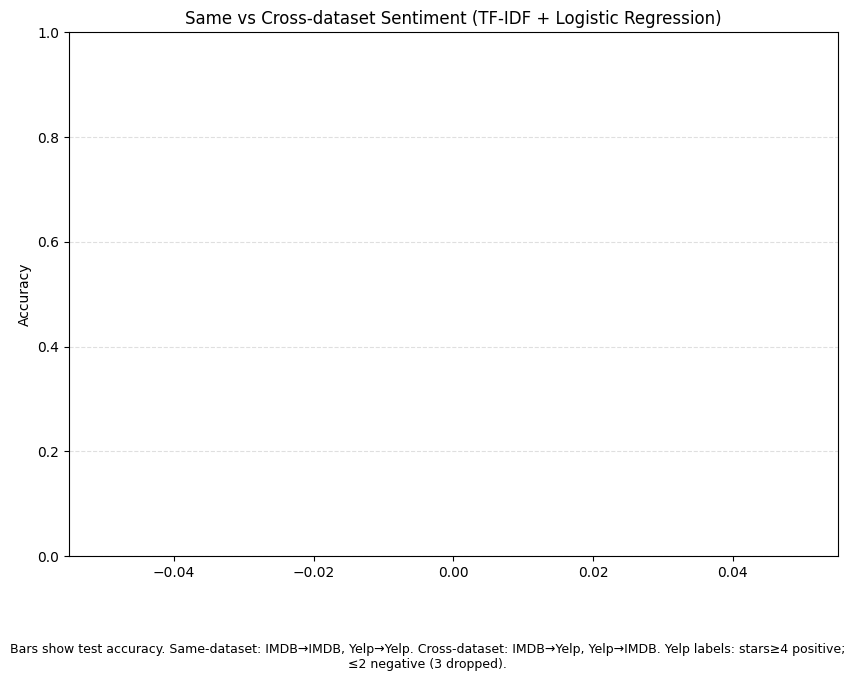
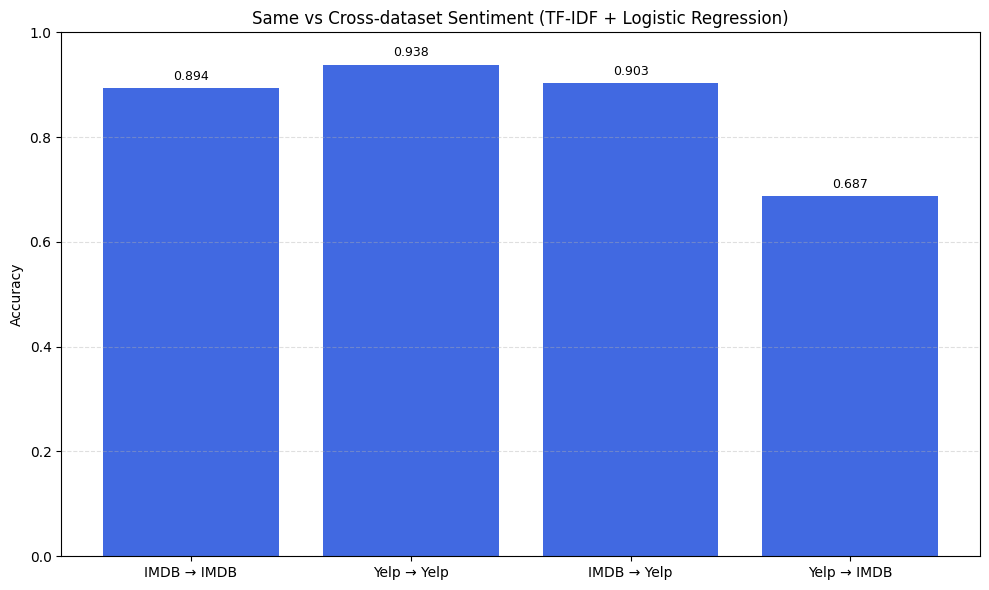
Fixed

diff --git a/main.py b/main.py
@@ -1,4 +1,3 @@
-# main.py
 from pathlib import Path
 import json, warnings
 import numpy as np, pandas as pd
@@ -89,8 +88,8 @@ def read_yelp():
 
 # Function to define the model pipeline (TF-IDF + Logistic Regression)
 def model():
-    return Pipeline([
-        ("tfidf", TfidfVectorizer(strip_accents="unicode", lowercase=True,
+    return Pipeline([ 
+        ("tfidf", TfidfVectorizer(strip_accents="unicode", lowercase=True, 
                                   ngram_range=(1,2), min_df=2, max_features=100_000)),  # TF-IDF vectorizer
         ("clf", LogisticRegression(solver="liblinear", C=1.0, max_iter=1000, random_state=42))  # Logistic Regression classifier
     ])
@@ -103,6 +102,9 @@ def run(Xtr, ytr, Xte, yte, trn, tst):
     return {"train_on": trn, "test_on": tst, "n_train": len(Xtr), "n_test": len(Xte), "accuracy": float(acc)}
 
 # Function to plot the results
+import pandas as pd
+import matplotlib.pyplot as plt
+
 def plot(df):
     # Create a new column 'setup' to represent the combination of train_on and test_on
     df['setup'] = df['train_on'] + " → " + df['test_on']
@@ -110,12 +112,11 @@ def plot(df):
     # Custom order for the experiments
     order = ["IMDB→IMDB", "Yelp→Yelp", "IMDB→Yelp", "Yelp→IMDB"]
     
-    # Filter the DataFrame to include only the defined setups and sort based on the 'setup' column
-    df = df[df['setup'].isin(order)]  # Filter to include only the defined setups
+    # Sort the DataFrame based on the defined custom order
     df = df.sort_values(by='setup', key=lambda x: pd.Categorical(x, categories=order, ordered=True))  # Sort based on the custom order
 
     # Create the plot
-    plt.figure(figsize=(8.5, 6))  # Create a figure for the plot
+    plt.figure(figsize=(10, 6))  # Adjust the figure size to fit labels properly
     bars = plt.bar(df["setup"], df["accuracy"], color='royalblue')  # Create bars for each experiment result
     plt.ylim(0, 1)  # Set the y-axis limit
     plt.ylabel("Accuracy")
@@ -126,11 +127,8 @@ def plot(df):
     for b, v in zip(bars, df["accuracy"]):
         plt.text(b.get_x() + b.get_width() / 2, v + 0.01, f"{v:.3f}", ha="center", va="bottom", fontsize=9)
     
-    # Add a caption for the plot
-    caption = ("Bars show test accuracy. Same-dataset: IMDB→IMDB, Yelp→Yelp. "
-               "Cross-dataset: IMDB→Yelp, Yelp→IMDB. Yelp labels: stars≥4 positive; ≤2 negative (3 dropped).")
-    plt.gcf().text(0.5, -0.08, caption, ha="center", va="top", fontsize=9, wrap=True)
-    plt.tight_layout()  # Adjust layout
+    # Adjust layout to ensure the labels are not cut off
+    plt.tight_layout()
     plt.savefig(OUTDIR / "cross_domain_results.png", bbox_inches="tight")  # Save the plot as PNG
     plt.close()  # Close the plot
 
